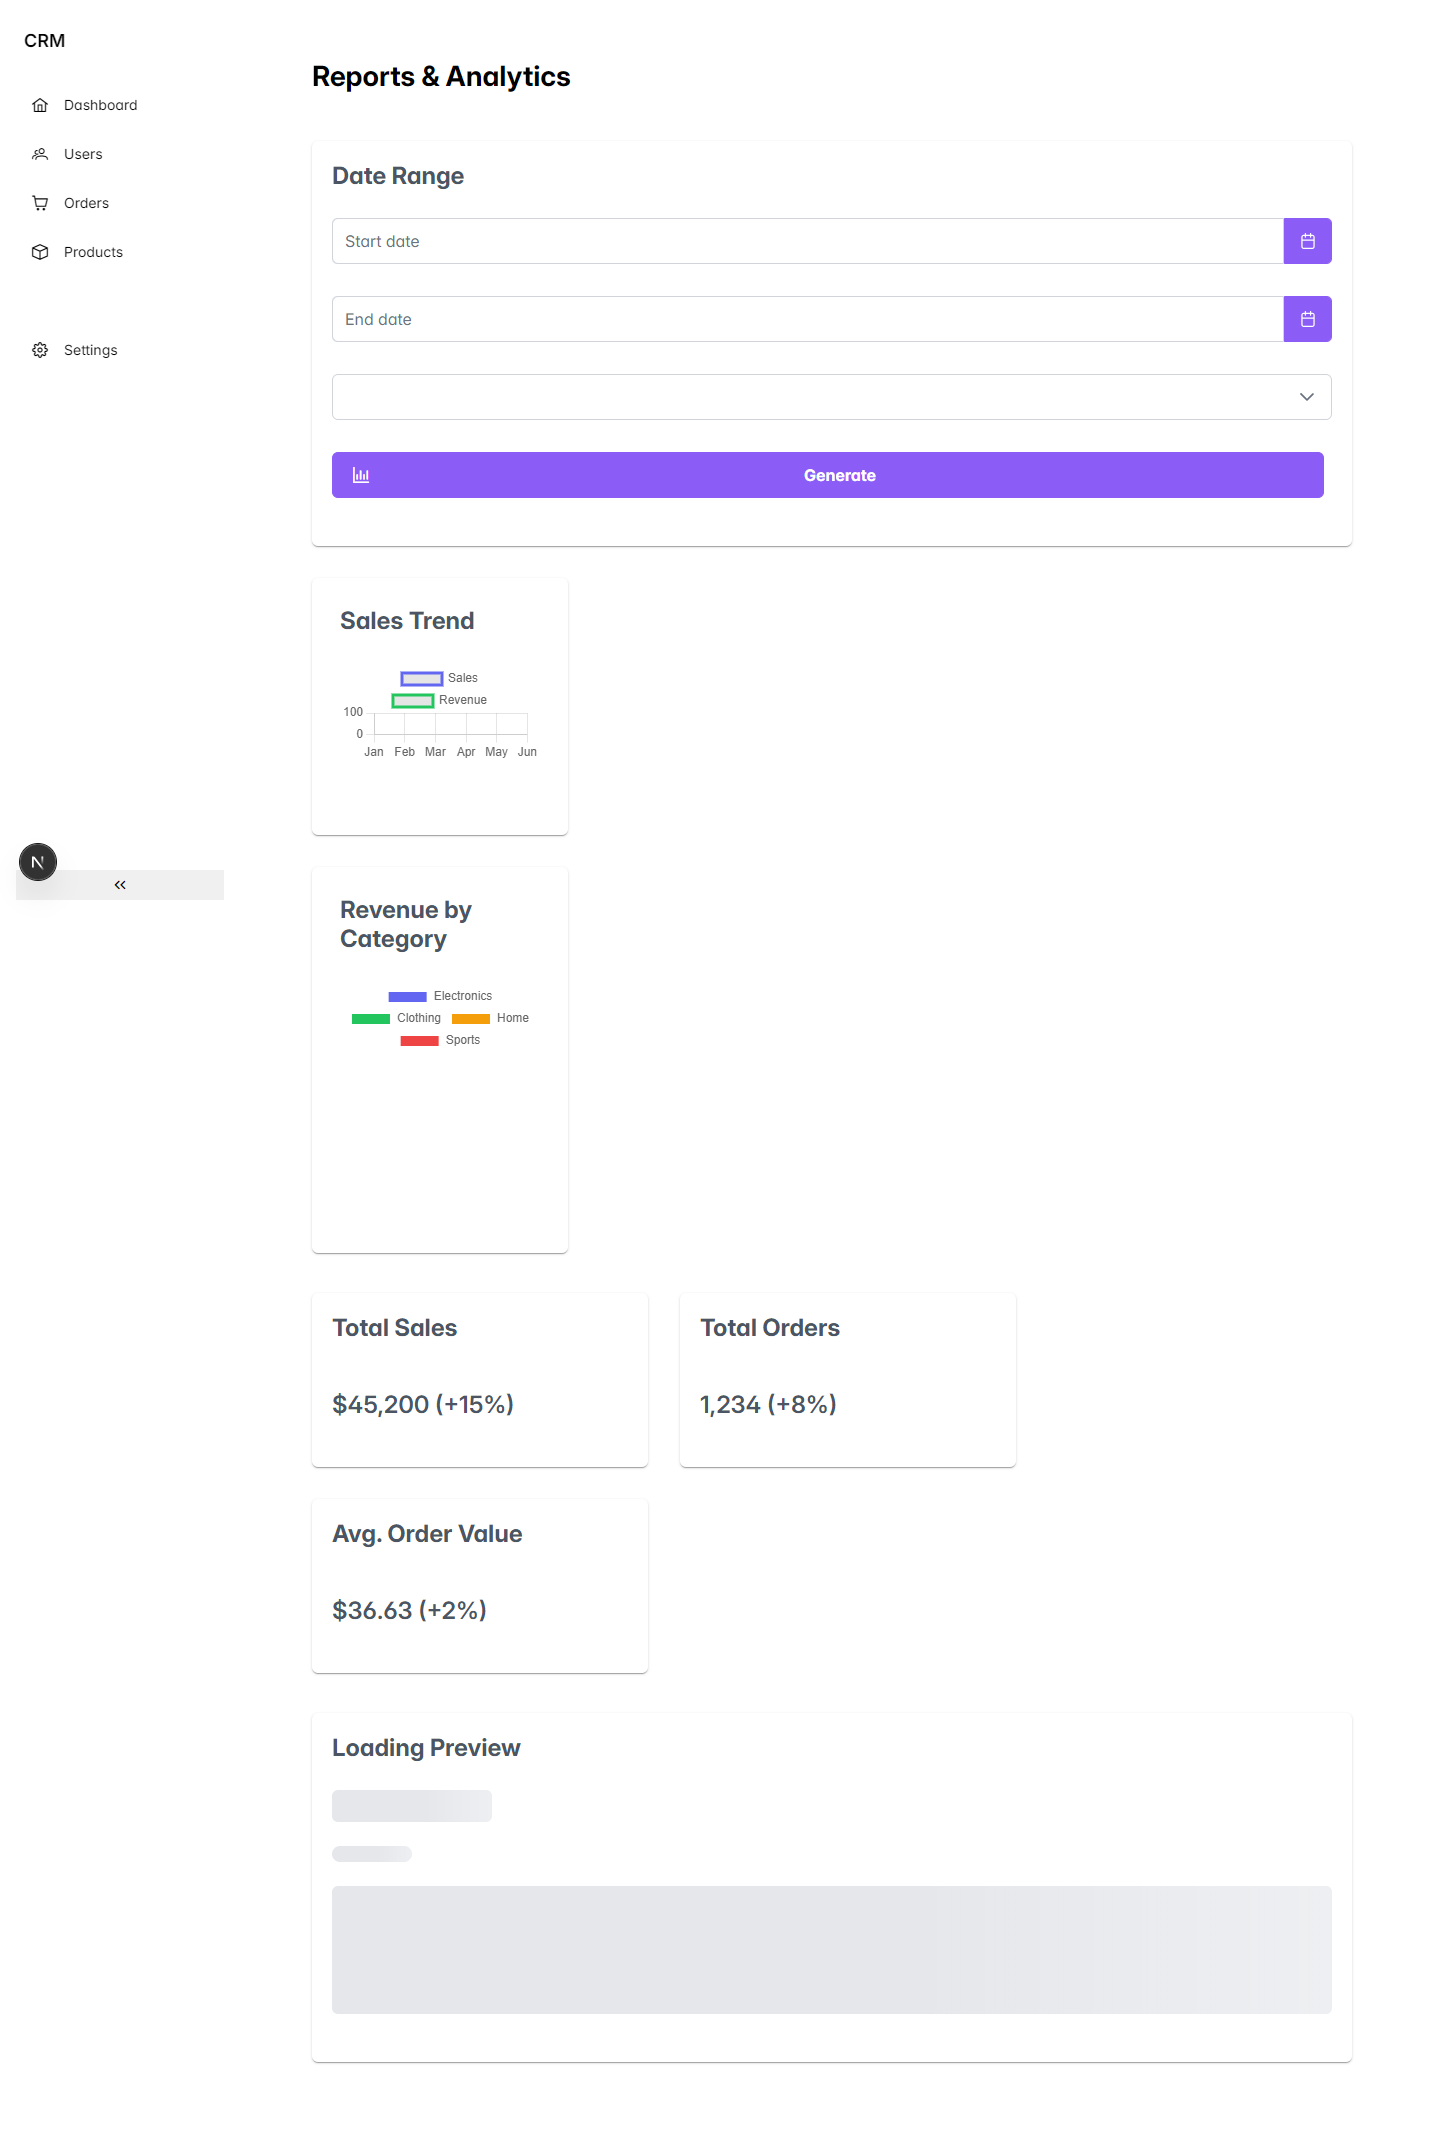
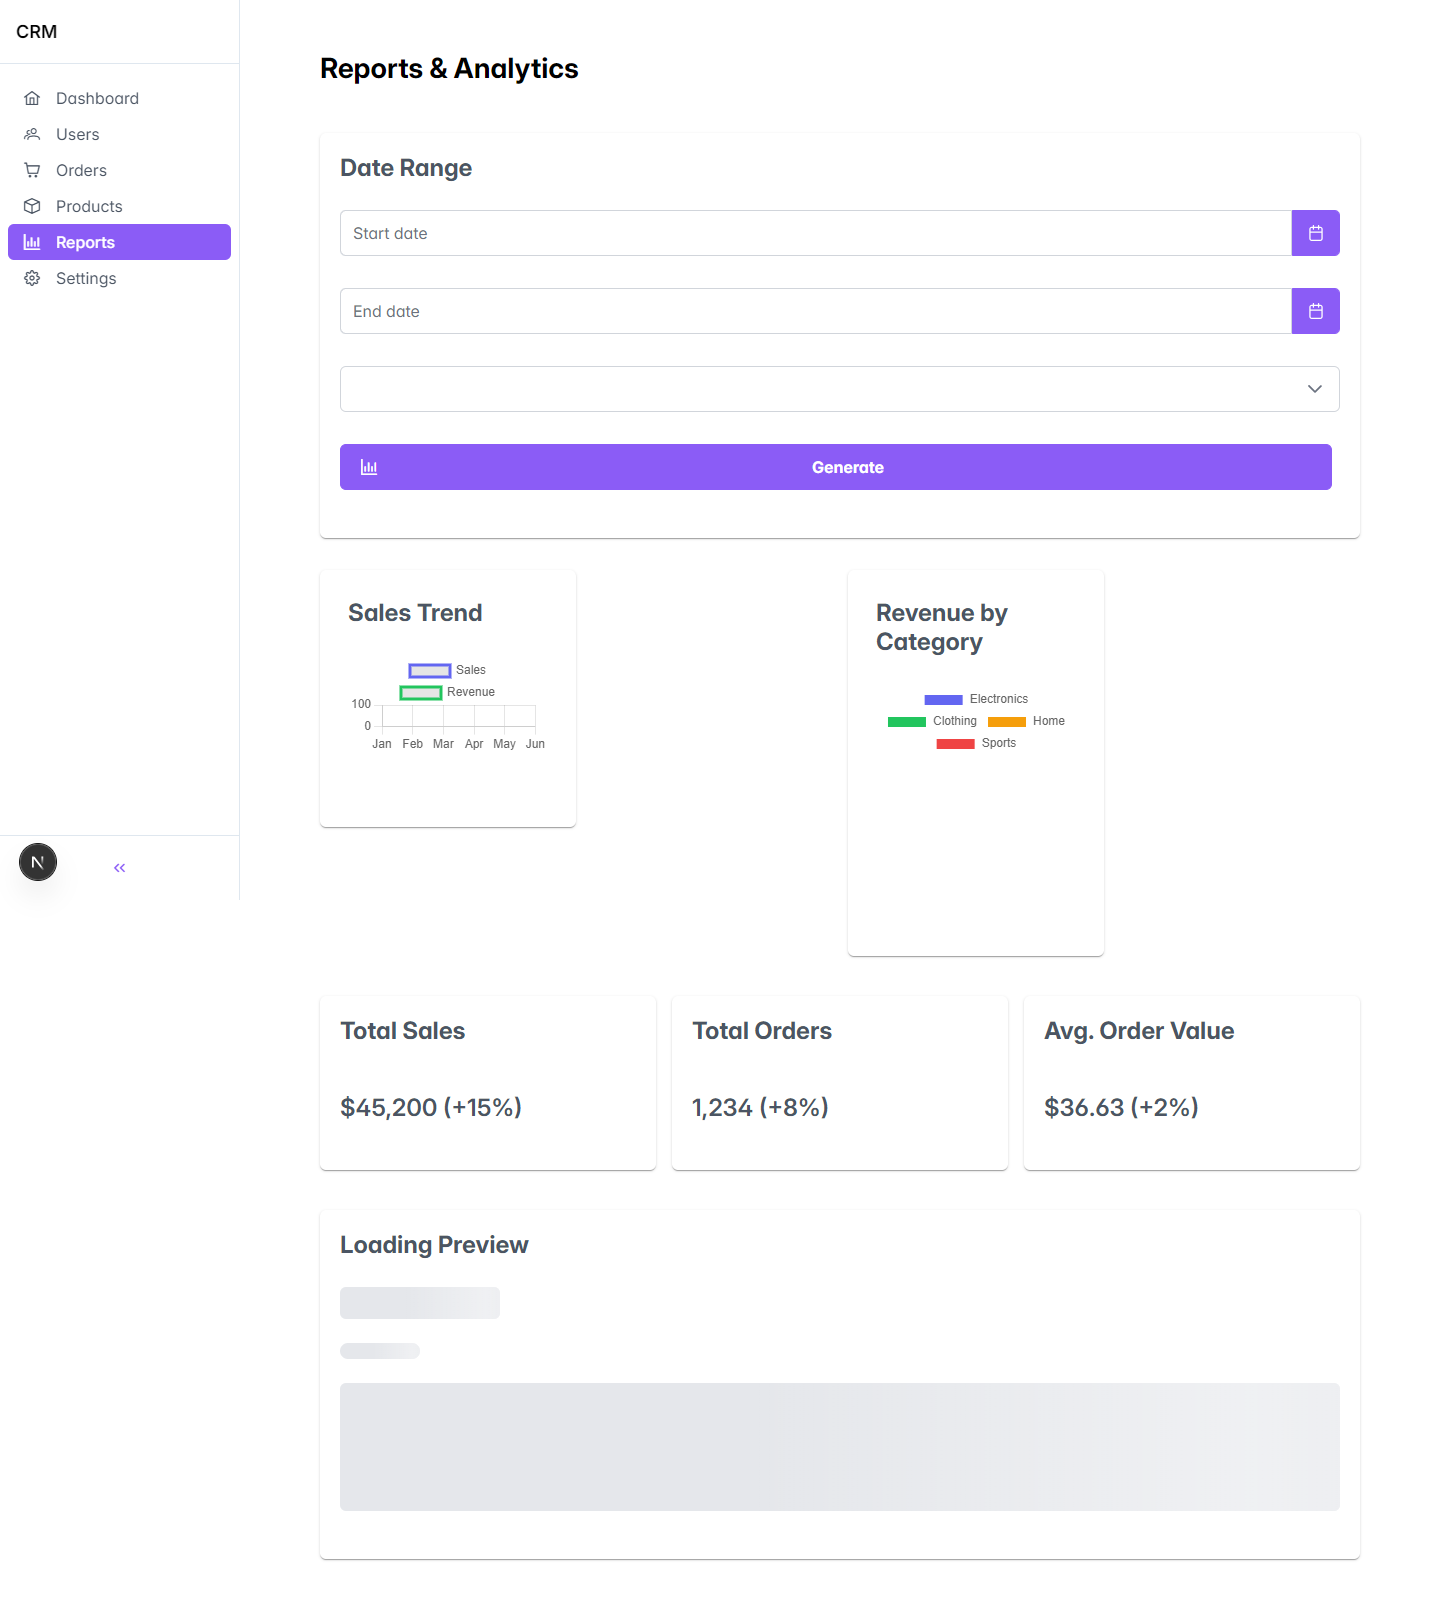
refactor: use PrimeReact Menu + Sidebar for navigation

diff --git a/src/engine/DashboardSidebar.tsx b/src/engine/DashboardSidebar.tsx
@@ -1,155 +1,156 @@
 "use client";
 
-import React, { useState, useEffect } from "react";
+import React, { useState, useEffect, useCallback } from "react";
 import { useRouter, usePathname } from "next/navigation";
-import Link from "next/link";
 import { NavItem } from "@/types";
+import { Sidebar } from "primereact/sidebar";
+import { Menu } from "primereact/menu";
+import { Button } from "primereact/button";
+
+/** Рендерит пункт меню с подсветкой активного */
+function NavMenuItem({ item, active }: { item: NavItem; active: boolean }) {
+  const { label, icon, route } = item;
+  return (
+    <div
+      className={`flex align-items-center gap-3 px-3 py-2 border-round-md cursor-pointer transition-all ${
+        active ? "font-medium" : "text-500 hover:surface-hover"
+      }`}
+      style={
+        active
+          ? {
+              background: "var(--primary-color)",
+              color: "var(--primary-color-text)",
+            }
+          : undefined
+      }
+    >
+      <i className={icon}></i>
+      <span className="overflow-hidden text-ellipsis white-space-nowrap">
+        {label}
+      </span>
+    </div>
+  );
+}
 
 export function DashboardSidebar({ items }: { items: NavItem[] }) {
   const router = useRouter();
   const pathname = usePathname() || "/";
 
   const [collapsed, setCollapsed] = useState(false);
-  const [mobileOpen, setMobileOpen] = useState(false);
+  const [mobileVisible, setMobileVisible] = useState(false);
 
   useEffect(() => {
     const handleResize = () => {
       if (window.innerWidth >= 768) {
-        setMobileOpen(false);
+        setMobileVisible(false);
       }
     };
     window.addEventListener("resize", handleResize);
     return () => window.removeEventListener("resize", handleResize);
   }, []);
 
-  const handleNav = (route: string) => {
-    setMobileOpen(false);
-    router.push(route);
-  };
+  const isActive = useCallback(
+    (route: string) => pathname === route,
+    [pathname],
+  );
 
-  const isActive = (route: string) => pathname === route;
+  const handleNav = useCallback(
+    (route: string) => {
+      setMobileVisible(false);
+      router.push(route);
+    },
+    [router],
+  );
+
+  // Build menu items with custom template per item
+  const menuItems = items.map((item) => ({
+    label: item.label,
+    icon: item.icon,
+    command: () => handleNav(item.route),
+    template: (
+      <div onClick={() => handleNav(item.route)}>
+        <NavMenuItem item={item} active={isActive(item.route)} />
+      </div>
+    ),
+  }));
 
   return (
     <>
       {/* Mobile hamburger */}
-      <button
-        className="fixed top-4 left-4 z-5 p-3 border-round-md cursor-pointer md:hidden surface-800 border-1 border-700 text-400 hover:text-100"
-        onClick={() => setMobileOpen(true)}
-        aria-label="Open menu"
-      >
-        <i className="pi pi-bars text-xl"></i>
-      </button>
-
-      {/* Mobile overlay */}
-      {mobileOpen && (
-        <div
-          className="fixed inset-0 z-40 bg-black-alpha-50 md:hidden"
-          onClick={() => setMobileOpen(false)}
+      <div className="md:hidden fixed top-3 left-3 z-5">
+        <Button
+          icon="pi pi-bars"
+          className="p-button-rounded p-button-text p-button-secondary"
+          onClick={() => setMobileVisible(true)}
+          aria-label="Open menu"
         />
-      )}
-
-      {/* Mobile full-screen menu */}
-      <div
-        className={`fixed inset-0 z-50 transition-duration-300 transition-transform md:hidden surface-900 ${
-          mobileOpen ? "" : "-translate-x-full"
-        }`}
-      >
-        <div className="flex align-items-center justify-content-between p-4 border-bottom border-700">
-          <span className="text-xl font-semibold text-100">Menu</span>
-          <button
-            className="p-3 border-none cursor-pointer text-400 hover:text-100"
-            onClick={() => setMobileOpen(false)}
-          >
-            <i className="pi pi-times text-xl"></i>
-          </button>
-        </div>
-        <nav className="p-4 flex flex-column gap-1">
-          {items.map((item) => {
-            const active = isActive(item.route);
-            return (
-              <button
-                key={item.route}
-                className={`flex align-items-center gap-3 w-full px-4 py-3 border-round-md text-left cursor-pointer transition-colors border-none ${
-                  active ? "" : "text-400 hover:surface-700"
-                }`}
-                style={
-                  active
-                    ? {
-                        background: "var(--primary-color)",
-                        color: "var(--primary-color-text)",
-                      }
-                    : undefined
-                }
-                onClick={() => handleNav(item.route)}
-              >
-                <i className={item.icon}></i>
-                <span>{item.label}</span>
-              </button>
-            );
-          })}
-        </nav>
       </div>
+
+      {/* Mobile sidebar using PrimeReact Sidebar + Menu */}
+      <Sidebar
+        visible={mobileVisible}
+        onHide={() => setMobileVisible(false)}
+        position="left"
+        baseZIndex={1000}
+        showCloseIcon={false}
+        className="w-18rem"
+      >
+        <div className="flex align-items-center justify-content-between mb-3">
+          <h3 className="text-xl font-semibold m-0">Menu</h3>
+          <Button
+            icon="pi pi-times"
+            className="p-button-rounded p-button-text p-button-sm"
+            onClick={() => setMobileVisible(false)}
+          />
+        </div>
+        <Menu
+          model={menuItems}
+          className="border-none w-full"
+          style={{ background: "transparent" }}
+        />
+      </Sidebar>
 
       {/* Desktop sidebar */}
       <aside
-        className={`hidden md:flex flex-column h-screen surface-800 border-right border-700 transition-all transition-duration-300 sticky top-0 ${
-          collapsed ? "w-4rem" : "w-14rem"
+        className={`hidden md:flex flex-column h-screen surface-overlay transition-all transition-duration-300 sticky top-0 ${
+          collapsed ? "w-4rem" : "w-15rem"
         }`}
+        style={{ borderRight: "1px solid var(--surface-border)" }}
       >
         {/* Logo */}
-        <div className="flex align-items-center h-4rem px-3 border-bottom border-700">
+        <div
+          className="flex align-items-center h-4rem px-3"
+          style={{ borderBottom: "1px solid var(--surface-border)" }}
+        >
           {!collapsed && (
-            <span className="text-lg font-semibold text-100 overflow-hidden text-ellipsis white-space-nowrap">
+            <span className="text-lg font-semibold overflow-hidden text-ellipsis white-space-nowrap">
               CRM
             </span>
           )}
         </div>
 
-        {/* Navigation */}
-        <nav className="flex-1 py-2 overflow-y-auto overflow-x-hidden">
-          {items.map((item) => {
-            const active = isActive(item.route);
-            return (
-              <Link
-                key={item.route}
-                href={item.route}
-                title={collapsed ? item.label : undefined}
-                className={`flex align-items-center gap-3 mx-2 px-3 py-3 border-round-md text-sm no-underline transition-colors ${
-                  collapsed ? "justify-content-center" : ""
-                } ${active ? "" : "text-400 hover:surface-700"}`}
-                style={
-                  active
-                    ? {
-                        background: "var(--primary-color)",
-                        color: "var(--primary-color-text)",
-                      }
-                    : undefined
-                }
-              >
-                <i className={item.icon}></i>
-                {!collapsed && (
-                  <span className="overflow-hidden text-ellipsis white-space-nowrap">
-                    {item.label}
-                  </span>
-                )}
-              </Link>
-            );
-          })}
-        </nav>
+        {/* Navigation using PrimeReact Menu */}
+        <div className="flex-1 py-2 overflow-y-auto overflow-x-hidden px-2">
+          <Menu
+            model={menuItems}
+            className="border-none w-full"
+            style={{ background: "transparent" }}
+          />
+        </div>
 
         {/* Collapse button */}
-        <div className="p-2 border-top border-700">
-          <button
-            className="flex align-items-center justify-content-center w-full py-2 text-400 hover:text-100 transition-colors cursor-pointer border-none"
+        <div
+          className="p-2"
+          style={{ borderTop: "1px solid var(--surface-border)" }}
+        >
+          <Button
+            icon={
+              collapsed ? "pi pi-angle-double-right" : "pi pi-angle-double-left"
+            }
+            className="p-button-text p-button-sm p-button-rounded w-full"
             onClick={() => setCollapsed(!collapsed)}
             title={collapsed ? "Expand sidebar" : "Collapse sidebar"}
-          >
-            <i
-              className={`pi text-sm ${
-                collapsed ? "pi-angle-double-right" : "pi-angle-double-left"
-              }`}
-            ></i>
-          </button>
+          />
         </div>
       </aside>
     </>
